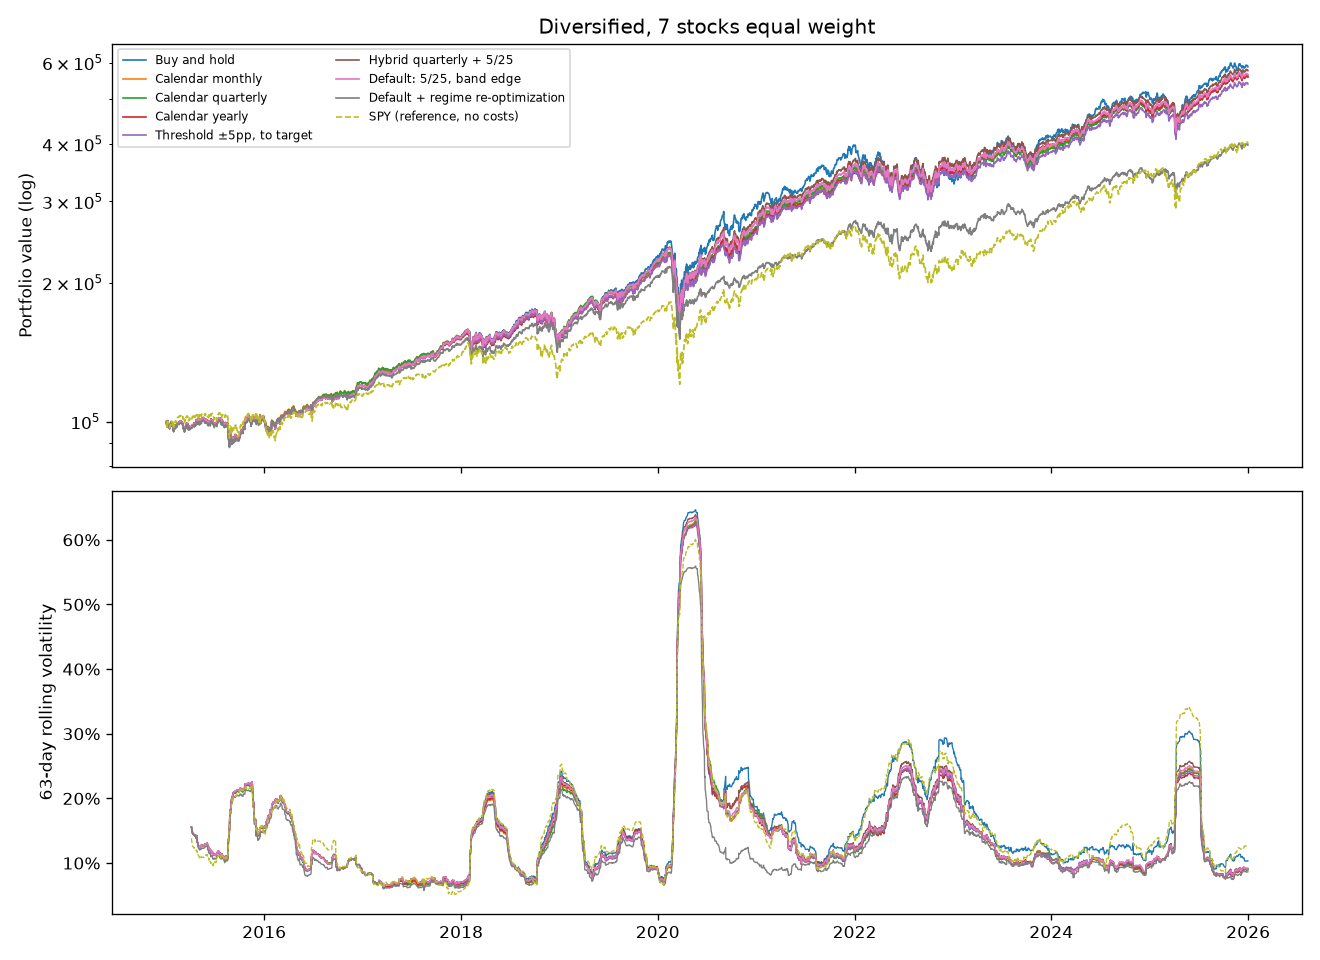
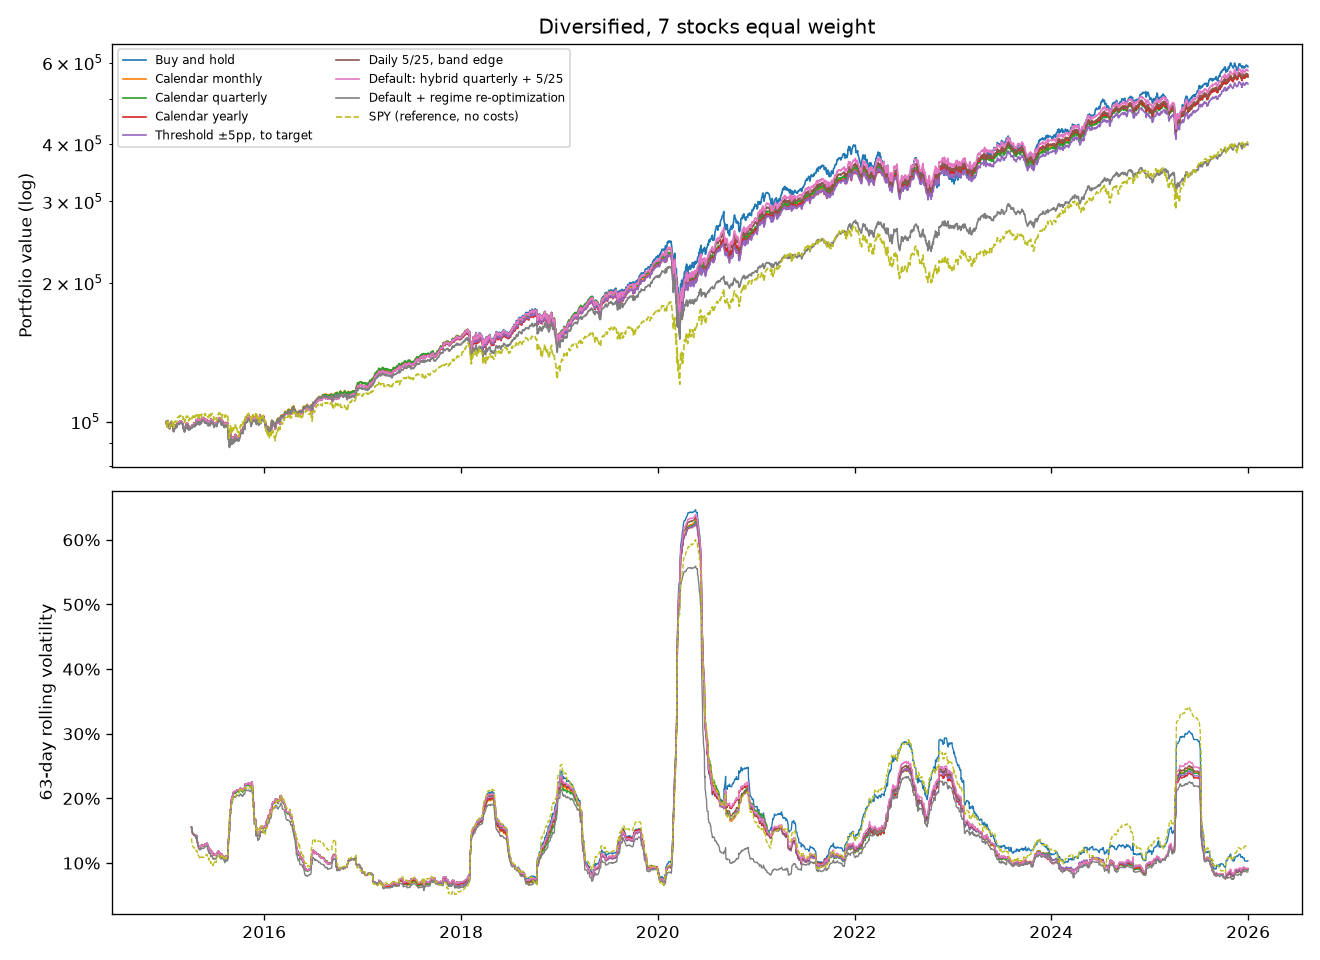
Make the quarterly hybrid the default rebalancing policy
The real-data backtest showed that monitoring and trading to the band
edge every day causes many small trades under per-order fees, while the
quarterly hybrid had the best cost/benefit. default_policy() now trades
only when a position is out of its 5/25 band and at least a quarter has
passed since the last rebalance; regime changes are still checked daily.

Updates the backtest, results, README and the design conversation.

diff --git a/lib/tests/test_rebalancing.py b/lib/tests/test_rebalancing.py
@@ -1,4 +1,4 @@
-from datetime import date, timedelta
+from datetime import timedelta
 from decimal import Decimal
 
 import pytest
@@ -13,14 +13,18 @@ from portfolio_rebalancer import (
     DriftTrigger,
     FiveTwentyFive,
     FixedPlusPercentCost,
+    MarketContext,
     Portfolio,
+    PriceHistory,
+    PricePoint,
+    RatePoint,
     RebalancePolicy,
     RelativeBand,
+    RiskFreeRate,
     Sector,
     Side,
     StalePlanError,
     TargetMode,
-    Transaction,
     calendar_policy,
     default_policy,
 )
@@ -86,6 +90,24 @@ class TestDefaultPolicy:
         # META 50% -> upper edge 45% (sell 4 x 150 = 600), AAPL gets the proceeds
         assert orders_by_symbol(plan) == {"META": (Side.SELL, 4), "AAPL": (Side.BUY, 3)}
         assert plan.weights_after["META"] == Decimal("0.45")
+
+    def test_waits_for_the_check_interval(self, funded, meta):
+        invested(funded)
+        month_later = D1 + timedelta(days=30)
+        meta.update_price(150, month_later)
+        assert not funded.rebalance(default_policy(), as_of=month_later).triggered
+        assert funded.rebalance(default_policy(check_every=timedelta(days=30)), as_of=month_later).triggered
+
+    def test_regime_change_is_checked_every_day(self, funded):
+        rates = RiskFreeRate("T-Bill", "3M", [RatePoint(D0, "0.02"), RatePoint(D2, "0.04")])
+        market = MarketContext(rates, PriceHistory([PricePoint(D0, 100)]))
+        funded.set_allocation(Allocation.from_percentages({"META": 40, "AAPL": 60}).with_context(market.as_of(D0)))
+        invested(funded)
+        years = timedelta(days=3650)
+        plan = funded.rebalance(default_policy(check_every=years), as_of=D2, market=market)
+        assert plan.requires_reoptimization and "+200bps" in plan.reasons[0]
+        without = funded.rebalance(default_policy(check_every=years, detect_regime_change=False), as_of=D2, market=market)
+        assert not without.triggered
 
     def test_whole_shares_land_inside_band(self):
         # Coarse shares (one META share ~1.4% of the portfolio): exact band edges are unreachable.

diff --git a/lib/portfolio_rebalancer/rebalancing/policies.py b/lib/portfolio_rebalancer/rebalancing/policies.py
@@ -10,6 +10,7 @@ from portfolio_rebalancer.money import ZERO
 from portfolio_rebalancer.rebalancing.bands import Band, FiveTwentyFive
 from portfolio_rebalancer.rebalancing.enums import TargetMode
 from portfolio_rebalancer.rebalancing.triggers import (
+    AllOf,
     AnyOf,
     CalendarTrigger,
     DriftTrigger,
@@ -37,15 +38,25 @@ class RebalancePolicy:
 def default_policy(
     band: Band | None = None,
     sector_limits: Mapping[Sector, Decimal] | None = None,
+    check_every: timedelta = timedelta(days=91),
+    detect_regime_change: bool = True,
     **overrides,
 ) -> RebalancePolicy:
-    """Best cost/effectiveness trade-off per the literature (see README): monitor often,
-    trade only out of 5/25 bands, to the band edge, cash flows first, never to a stale target."""
+    """Hybrid, the best cost/benefit in the backtest (results.md).
+
+    Trades when a position is out of its 5/25 band (or a sector over its cap)
+    and at least ``check_every`` has passed since the last rebalance; trades
+    to the band edge, cash flows first. Regime changes are checked every day
+    and stop trades toward a stale target.
+    """
     band = band or FiveTwentyFive()
-    triggers: list[TriggerPolicy] = [DriftTrigger(band), RegimeChangeTrigger()]
+    drift: TriggerPolicy = DriftTrigger(band)
     if sector_limits:
-        triggers.append(SectorLimitTrigger(sector_limits))
-    return RebalancePolicy(trigger=AnyOf(*triggers), band=band, **overrides)
+        drift = AnyOf(drift, SectorLimitTrigger(sector_limits))
+    trigger: TriggerPolicy = AllOf(CalendarTrigger(check_every), drift)
+    if detect_regime_change:
+        trigger = AnyOf(trigger, RegimeChangeTrigger())
+    return RebalancePolicy(trigger=trigger, band=band, **overrides)
 
 
 def calendar_policy(every: timedelta = timedelta(days=365), **overrides) -> RebalancePolicy:

diff --git a/lib/examples/demo.py b/lib/examples/demo.py
@@ -12,7 +12,7 @@ import math
 import re
 import sys
 import warnings
-from dataclasses import dataclass, field, replace
+from dataclasses import dataclass, field
 from datetime import date, datetime, time, timedelta, timezone
 from decimal import Decimal
 from pathlib import Path
@@ -21,9 +21,7 @@ sys.path.insert(0, str(Path(__file__).resolve().parents[1]))
 
 from portfolio_rebalancer import (  # noqa: E402
     AbsoluteBand,
-    AllOf,
     Allocation,
-    CalendarTrigger,
     DriftTrigger,
     FixedPlusPercentCost,
     HistoricalRiskModel,
@@ -77,8 +75,8 @@ POLICIES: list[tuple[str, RebalancePolicy, bool]] = [
     ("Calendar quarterly", calendar_policy(timedelta(days=91)), False),
     ("Calendar yearly", calendar_policy(timedelta(days=365)), False),
     ("Threshold ±5pp, to target", RebalancePolicy(DriftTrigger(FIVE_PP), band=FIVE_PP, target_mode=TargetMode.TO_TARGET), False),
-    ("Hybrid quarterly + 5/25", RebalancePolicy(AllOf(CalendarTrigger(timedelta(days=91)), DriftTrigger())), False),
-    ("Default: 5/25, band edge", replace(default_policy(), trigger=DriftTrigger()), False),
+    ("Daily 5/25, band edge", RebalancePolicy(DriftTrigger()), False),
+    ("Default: hybrid quarterly + 5/25", default_policy(detect_regime_change=False), False),
     ("Default + regime re-optimization", default_policy(), True),
 ]
 

diff --git a/lib/examples/walkthrough.py b/lib/examples/walkthrough.py
@@ -69,7 +69,7 @@ initial = portfolio.rebalance(RebalancePolicy(AlwaysTrigger(), target_mode=Targe
 print(initial.summary())
 portfolio.apply(initial)
 
-header(f"2. {DRIFT_DAY}: prices drifted, default policy (5/25 bands, trade to band edge)")
+header(f"2. {DRIFT_DAY}: prices drifted, default policy (quarterly check, 5/25 bands, to band edge)")
 drift_plan = portfolio.rebalance(default_policy(), DRIFT_DAY, market)
 print(drift_plan.summary())
 portfolio.apply(drift_plan)

diff --git a/results.md b/results.md
@@ -43,9 +43,9 @@ Reproduce with `.venv/bin/python lib/examples/demo.py` (see the README).
 | Calendar quarterly | 24.98% | 28.20% | 0.86 | -48.13% | 10.58% | 8% | 2.09% | 44 | 85 | 30% | 773 | 0 |
 | Calendar yearly | 24.87% | 28.09% | 0.86 | -44.62% | 10.34% | 8% | 4.61% | 11 | 22 | 15% | 377 | 0 |
 | Threshold ±5pp, to target | 25.36% | 28.19% | 0.88 | -47.83% | 10.55% | 7% | 1.99% | 28 | 54 | 36% | 896 | 0 |
-| Hybrid quarterly + 5/25 | 26.09% | 28.18% | 0.90 | -44.66% | 10.47% | 10% | 4.03% | 26 | 51 | 18% | 486 | 0 |
-| Default: 5/25, band edge | 25.84% | 28.21% | 0.89 | -46.56% | 10.58% | 8% | 2.70% | 183 | 361 | 22% | 888 | 0 |
-| Default + regime re-optimization | 16.63% | 21.76% | 0.73 | -36.72% | 8.17% | 16% | 1.85% | 132 | 224 | 48% | 938 | 79 |
+| Daily 5/25, band edge | 25.84% | 28.21% | 0.89 | -46.56% | 10.58% | 8% | 2.70% | 183 | 361 | 22% | 888 | 0 |
+| Default: hybrid quarterly + 5/25 | 26.09% | 28.18% | 0.90 | -44.66% | 10.47% | 10% | 4.03% | 26 | 51 | 18% | 486 | 0 |
+| Default + regime re-optimization | 16.55% | 21.75% | 0.73 | -36.44% | 8.15% | 16% | 2.01% | 84 | 162 | 46% | 844 | 79 |
 | SPY (reference, no costs) | 13.43% | 17.79% | 0.69 | -33.72% | 8.79% | 13% | - | - | - | - | - | - |
 
 ![META/AAPL 40/60](docs/backtest_meta_aapl_40_60.png)
@@ -59,9 +59,9 @@ Reproduce with `.venv/bin/python lib/examples/demo.py` (see the README).
 | Calendar quarterly | 16.94% | 16.65% | 0.91 | -32.44% | 8.74% | 14% | 2.70% | 44 | 282 | 31% | 726 | 0 |
 | Calendar yearly | 16.95% | 16.64% | 0.91 | -32.43% | 8.65% | 14% | 5.30% | 11 | 69 | 17% | 313 | 0 |
 | Threshold ±5pp, to target | 16.57% | 16.67% | 0.89 | -32.84% | 8.67% | 15% | 4.30% | 9 | 60 | 15% | 269 | 0 |
-| Hybrid quarterly + 5/25 | 17.27% | 17.03% | 0.91 | -32.27% | 8.93% | 13% | 7.64% | 34 | 116 | 10% | 267 | 0 |
-| Default: 5/25, band edge | 17.06% | 16.85% | 0.91 | -32.58% | 8.82% | 14% | 5.98% | 214 | 650 | 12% | 818 | 0 |
-| Default + regime re-optimization | 13.38% | 15.05% | 0.78 | -30.38% | 7.78% | 13% | 1.77% | 92 | 546 | 47% | 1,093 | 81 |
+| Daily 5/25, band edge | 17.06% | 16.85% | 0.91 | -32.58% | 8.82% | 14% | 5.98% | 214 | 650 | 12% | 818 | 0 |
+| Default: hybrid quarterly + 5/25 | 17.27% | 17.03% | 0.91 | -32.27% | 8.93% | 13% | 7.64% | 34 | 116 | 10% | 267 | 0 |
+| Default + regime re-optimization | 13.39% | 15.05% | 0.78 | -30.38% | 7.77% | 13% | 1.78% | 83 | 538 | 47% | 1,083 | 81 |
 | SPY (reference, no costs) | 13.43% | 17.79% | 0.69 | -33.72% | 8.79% | 13% | - | - | - | - | - | - |
 
 ![Diversified, 7 stocks equal weight](docs/backtest_diversified_7_stocks_equal_weight.png)
@@ -78,11 +78,11 @@ Reproduce with `.venv/bin/python lib/examples/demo.py` (see the README).
    return.** In META/AAPL every rebalanced policy beat buy-and-hold by 1.4 to
    2.7pp a year (selling the winner of each swing and buying the laggard).
 3. **The best cost/benefit was the hybrid (quarterly check + 5/25 bands, to
-   the band edge).** It had the best Sharpe in both universes (0.90 and
+   the band edge), which is now the library's default.** It had the best Sharpe in both universes (0.90 and
    0.91, tied in the second), the highest CAGR among rebalanced policies, and
    the lowest or near-lowest costs (486 and 267 USD in eleven years).
-4. **Our default policy (daily monitoring, trade to the band edge) trades
-   little volume, but very often.** Its turnover (22% and 12% a year) is
+4. **The previous default (daily monitoring, trade to the band edge), shown
+   as "Daily 5/25, band edge", trades little volume, but very often.** Its turnover (22% and 12% a year) is
    below the monthly, quarterly and threshold policies, but it rebalanced
    183 and 214 times, far more than any other: after a trade the position
    sits exactly at the edge, so the next move in the same direction crosses
@@ -91,9 +91,8 @@ Reproduce with `.venv/bin/python lib/examples/demo.py` (see the README).
    fixed fee per order (1 USD here, and in many brokers), the number of
    orders matters and the advantage disappears. Its costs (888 and 818) were
    similar to or higher than threshold-to-target (896 and 269) and 1.8 to
-   3 times the hybrid's. **This is the main lesson for the module.** The
-   default should either check less often (hybrid) or trade part of the way
-   back toward the target, not exactly to the edge.
+   3 times the hybrid's. **This was the main lesson for the module**, and
+   the reason the default now checks at most once a quarter.
 5. **The regime-aware variant gave the most stable risk, but the trigger is
    too sensitive.** It had the lowest volatility (21.8% and 15.1%), the
    lowest volatility of volatility (8.2% and 7.8%) and the smallest drawdowns,
@@ -103,7 +102,7 @@ Reproduce with `.venv/bin/python lib/examples/demo.py` (see the README).
    against 3 to 11 for risk-free moves, beta or volatility): that estimate
    regresses daily returns on daily T-bill changes, which are tiny, so it is
    noisy and the 0.02 threshold is too tight. It paid for that with one of
-   the highest turnovers (48% and 47%) and lower Sharpe ratios (0.73 and
+   the highest turnovers (46% and 47%) and lower Sharpe ratios (0.73 and
    0.78). Its returns also mix two effects: the regime trigger and the switch
    to inverse-volatility under a 20% risk target, which held 22% cash on
    average in META/AAPL (up to 54%) and 4% in the diversified universe. The rate-sensitivity estimate needs a longer window or a
@@ -116,12 +115,12 @@ Reproduce with `.venv/bin/python lib/examples/demo.py` (see the README).
    target with the regime moves this metric, which supports keeping the
    regime path, once it is calibrated.
 
-**Next steps suggested by these results:** make the hybrid the default (or
-add partial rebalancing toward the target for fixed-fee brokers), and
-recalibrate `RegimeChangeTrigger` (rate sensitivity over a longer window, a
-cooldown between re-optimizations). Neither change was made
-to the library here, to keep the backtest an honest test of the version
-described in the README.
+**Changes made after these results:** the hybrid became the default
+(`default_policy()`). Its row is the same policy that was first tested here
+as one more candidate, with identical numbers. **Still open:** recalibrate
+`RegimeChangeTrigger` (rate sensitivity over a longer window, a cooldown
+between re-optimizations), and consider partial rebalancing toward the target
+for brokers with fixed per-order fees.
 
 ## Caveats
 

diff --git a/README.md b/README.md
@@ -18,7 +18,7 @@ portfolio.apply(plan)             # records the trades in the ledger
 
 ```bash
 python -m venv .venv && .venv/bin/pip install -e ".[dev,backtest]"
-.venv/bin/python -m pytest                    # 58 tests
+.venv/bin/python -m pytest                    # 60 tests
 .venv/bin/python lib/examples/walkthrough.py  # feature tour on synthetic data
 .venv/bin/python lib/examples/demo.py         # backtest on real data -> results.md
 ```
@@ -137,7 +137,14 @@ rebalanced often earns more, but only because it ends up taking more risk.
 
 **Cheapest:** cash-flow rebalancing, then wide bands traded to the edge.
 **Most effective over medium and long horizons (net of costs):** the hybrid.
-The default policy combines all of them.
+
+`default_policy()` is that hybrid: a position must be out of its 5/25 band
+and at least a quarter must have passed since the last rebalance; it then
+trades to the band edge, cash flows first, and a regime change (checked every
+day) blocks trading toward a stale target. The first version monitored and
+traded every day; the backtest on real data ([results.md](results.md)) showed
+that, with a fixed fee per order, trading to the edge daily causes many small
+trades, while the quarterly hybrid had the best cost/benefit.
 
 *The references were cited from memory during the design conversation. Check
 the exact titles and years before quoting them.*
@@ -225,8 +232,8 @@ Portfolio (ledger ─► positions, cash) ──snapshot(as_of)──► Rebalan
   rebalancing layer never depends on the domain object that calls it (no
   import cycles).
 * **The policy is pluggable** (Strategy pattern): triggers compose with
-  `AnyOf` / `AllOf`, e.g. the hybrid "check every 90 days, trade only if out
-  of band" is `AllOf(CalendarTrigger(timedelta(days=90)), DriftTrigger())`.
+  `AnyOf` / `AllOf`. The default is
+  `AnyOf(AllOf(CalendarTrigger(timedelta(days=91)), DriftTrigger()), RegimeChangeTrigger())`.
 * **A new target is executed in full.** Band-edge trading is for *drift*. A
   new target is a strategic decision, so the next rebalance goes all the way
   to it.
@@ -256,7 +263,7 @@ Portfolio (ledger ─► positions, cash) ──snapshot(as_of)──► Rebalan
 
 ## Tests
 
-`.venv/bin/python -m pytest` runs 58 tests, in three files:
+`.venv/bin/python -m pytest` runs 60 tests, in three files:
 
 | Area | What is verified | File |
 |---|---|---|
@@ -266,7 +273,7 @@ Portfolio (ledger ─► positions, cash) ──snapshot(as_of)──► Rebalan
 | Portfolio target | unknown symbols rejected; new instrument joins the universe; foreign currency rejected | `test_domain.py` |
 | Bands | absolute, relative, 5/25 (tighter wins), zero target | `test_rebalancing.py` |
 | Requirement example (40/60 META/AAPL) | initial buy; META +50% → sell META, buy AAPL back to 40/60; no trades inside the band | `test_rebalancing.py` |
-| Default policy | trades to the band edge; whole shares still land inside the band; cash flows used before selling; sector cap forces the sector back | `test_rebalancing.py` |
+| Default policy | trades to the band edge; whole shares still land inside the band; cash flows used before selling; sector cap forces the sector back; waits for the quarterly check; regime change detected between checks | `test_rebalancing.py` |
 | Target changes | new instrument bought and removed one liquidated; new target executed in full; plan for an old target rejected; liquidation ignores minimum trade size | `test_rebalancing.py` |
 | Execution constraints | whole vs fractional shares; fees reserved and recorded; tiny and expensive trades skipped with a reason; cash buffer kept | `test_rebalancing.py` |
 | Triggers | calendar; hybrid (calendar AND drift) | `test_rebalancing.py` |
@@ -292,6 +299,11 @@ Portfolio (ledger ─► positions, cash) ──snapshot(as_of)──► Rebalan
   volume and spread the rest over several days (with sells and buys kept
   balanced so cash never goes negative). This needs volume data in
   `PriceHistory` and an impact model next to `CostModel`.
+* **Recalibrate `RegimeChangeTrigger`.** In the backtest it re-optimized about
+  7 times a year, almost always on sector rate sensitivity, which is noisy
+  when estimated from daily T-bill changes. Estimate it over a longer window
+  (or weekly data), widen its threshold, and add a cooldown between
+  re-optimizations.
 * Real data sources: implement `MarketDataProvider` (FRED for the risk-free
   rate, a market-data API for prices). See the backtest task below.
 * Multiple currencies / FX: rejected explicitly for now.
@@ -311,8 +323,9 @@ cost. Write the results to `results.md`.
 **Status: done.** `lib/examples/demo.py` implements it and
 [results.md](results.md) has the results. The two main findings feed the
 next steps above: with a fixed fee per order, trading exactly to the band
-edge produces many small trades (the quarterly hybrid did better), and the
-regime trigger fires too often on sector rate sensitivity.
+edge produces many small trades (the quarterly hybrid did better and is now
+the default), and the regime trigger fires too often on sector rate
+sensitivity (still open).
 
 ### 1. Data
 
@@ -352,8 +365,8 @@ regime trigger fires too often on sector rate sensitivity.
 | Buy and hold | invest once, never rebalance |
 | Calendar monthly / quarterly / yearly | `calendar_policy(every=timedelta(days=30 / 91 / 365))` |
 | Threshold to target | `RebalancePolicy(DriftTrigger(AbsoluteBand(Decimal("0.05"))), target_mode=TargetMode.TO_TARGET)` |
-| Hybrid | `RebalancePolicy(AllOf(CalendarTrigger(timedelta(days=91)), DriftTrigger()))` |
-| Default without regime check | `default_policy()` with the trigger replaced by `AnyOf(DriftTrigger())` |
+| Daily 5/25, band edge (first default) | `RebalancePolicy(DriftTrigger())` |
+| Default: hybrid quarterly + 5/25 | `default_policy(detect_regime_change=False)` |
 | Default, regime-aware | `default_policy()`; when a plan has `requires_reoptimization`, build a new target with `InverseVolatility(HistoricalRiskModel(stocks), risk_target=Decimal("0.20"))` for the same universe, `set_allocation` it and rebalance again |
 
 ### 3. Metrics (per policy and universe)

diff --git a/docs/llm-conversation.md b/docs/llm-conversation.md
@@ -1051,3 +1051,97 @@ Esta respuesta tampoco quedó en la conversación publicada. Si querés que el a
 ## User
 
 sí, regenera la conversación y haz commit
+
+<details><summary>1 tool call(s)</summary>
+
+- `Bash` — Regenerate conversation export and check diff
+
+</details>
+
+## Claude
+
+La única coincidencia con "Gmail" es mi propia frase diciendo que tu email no aparece; la dirección en sí no está. Hago el commit y el push.
+
+<details><summary>1 tool call(s)</summary>
+
+- `Bash` — Commit and push updated conversation
+
+</details>
+
+## Claude
+
+Regeneré `docs/llm-conversation.md` y lo subí en el commit `04b2973`. Ahora incluye la creación del repo y el primer push: https://github.com/JoseAvanzada2019/portfolio-rebalancer
+
+Esta respuesta tampoco queda en el archivo, porque la conversación siempre va un mensaje por detrás. Para el entregable no hace falta: lo que se publicó cubre todo el trabajo.
+
+---
+
+## User
+
+haz el híbrido la política default
+
+<details><summary>5 tool call(s)</summary>
+
+- `Read` portfolio-rebalancer/lib/portfolio_rebalancer/rebalancing/policies.py
+- `Bash` — Find references to default policy
+- `Edit` portfolio-rebalancer/lib/portfolio_rebalancer/rebalancing/policies.py
+- `Bash` — Import AllOf, add default-policy tests, run suite
+- `Bash` — Replace weak test with real regime test
+
+</details>
+
+## Claude
+
+Los 60 tests pasan. Ahora actualizo el backtest con la nueva default y lo vuelvo a correr.
+
+<details><summary>2 tool call(s)</summary>
+
+- `Bash` — Update backtest policies, lint, rerun
+- `Bash` — Fix imports, recount regime reasons, check walkthrough
+
+</details>
+
+## Claude
+
+Los conteos son idénticos. Ahora actualizo los textos: el encabezado de la walkthrough, los hallazgos y el README.
+
+<details><summary>5 tool call(s)</summary>
+
+- `Bash` — Update walkthrough header and results findings
+- `Bash` — Locate README lines to update
+- `Bash` — Show context of lines to change
+- `Bash` — Update README for hybrid default
+- `Bash` — Add regime recalibration next step, verify
+
+</details>
+
+## Claude
+
+Ya está: `default_policy()` ahora es el híbrido. Los 60 tests pasan (2 nuevos) y la demo y la walkthrough corren bien. **Todavía no hice commit ni push.**
+
+**Cómo funciona la nueva default:**
+- Opera solo si una posición sale de su banda 5/25 **y** pasaron al menos 91 días desde el último rebalanceo.
+- Opera hasta el borde de la banda y usa primero la caja disponible.
+- El cambio de régimen se sigue revisando **todos los días**, aunque no se haya cumplido el intervalo. Si se detecta, no se opera hacia un target obsoleto.
+- Nuevos parámetros: `check_every` (por defecto un trimestre) y `detect_regime_change` (para apagar el chequeo de régimen).
+- La política diaria anterior sigue disponible como `RebalancePolicy(DriftTrigger())`.
+
+**Tests nuevos:**
+- Un activo fuera de banda a los 30 días no dispara rebalanceo con la default, pero sí con `check_every=30 días`.
+- Si la tasa sube 200bps antes de que se cumpla el intervalo, el plan pide re-optimizar. Con `detect_regime_change=False`, no.
+
+**Backtest:** lo volví a correr. La fila de la nueva default dio exactamente los mismos números que el híbrido de la corrida anterior, lo que confirma que es la misma política. La variante con régimen cambió levemente (por ejemplo, el turnover en META/AAPL bajó de 48% a 46%). El conteo de razones del trigger de régimen no cambió (109 y 242 por sensibilidad a tasas).
+
+**Documentación actualizada:**
+- **`results.md`:** los hallazgos explican que el híbrido pasó a ser la default por estos resultados, y la fila "Daily 5/25, band edge" aparece como la default anterior.
+- **README:** explica el cambio y cuenta 60 tests en lugar de 58.
+- **Next steps:** recalibrar el trigger de régimen quedó como punto propio.
+- **Limpieza:** saqué dos imports sin uso en los tests.
+
+¿Hago commit y push al repo público?
+
+---
+
+## User
+
+si
